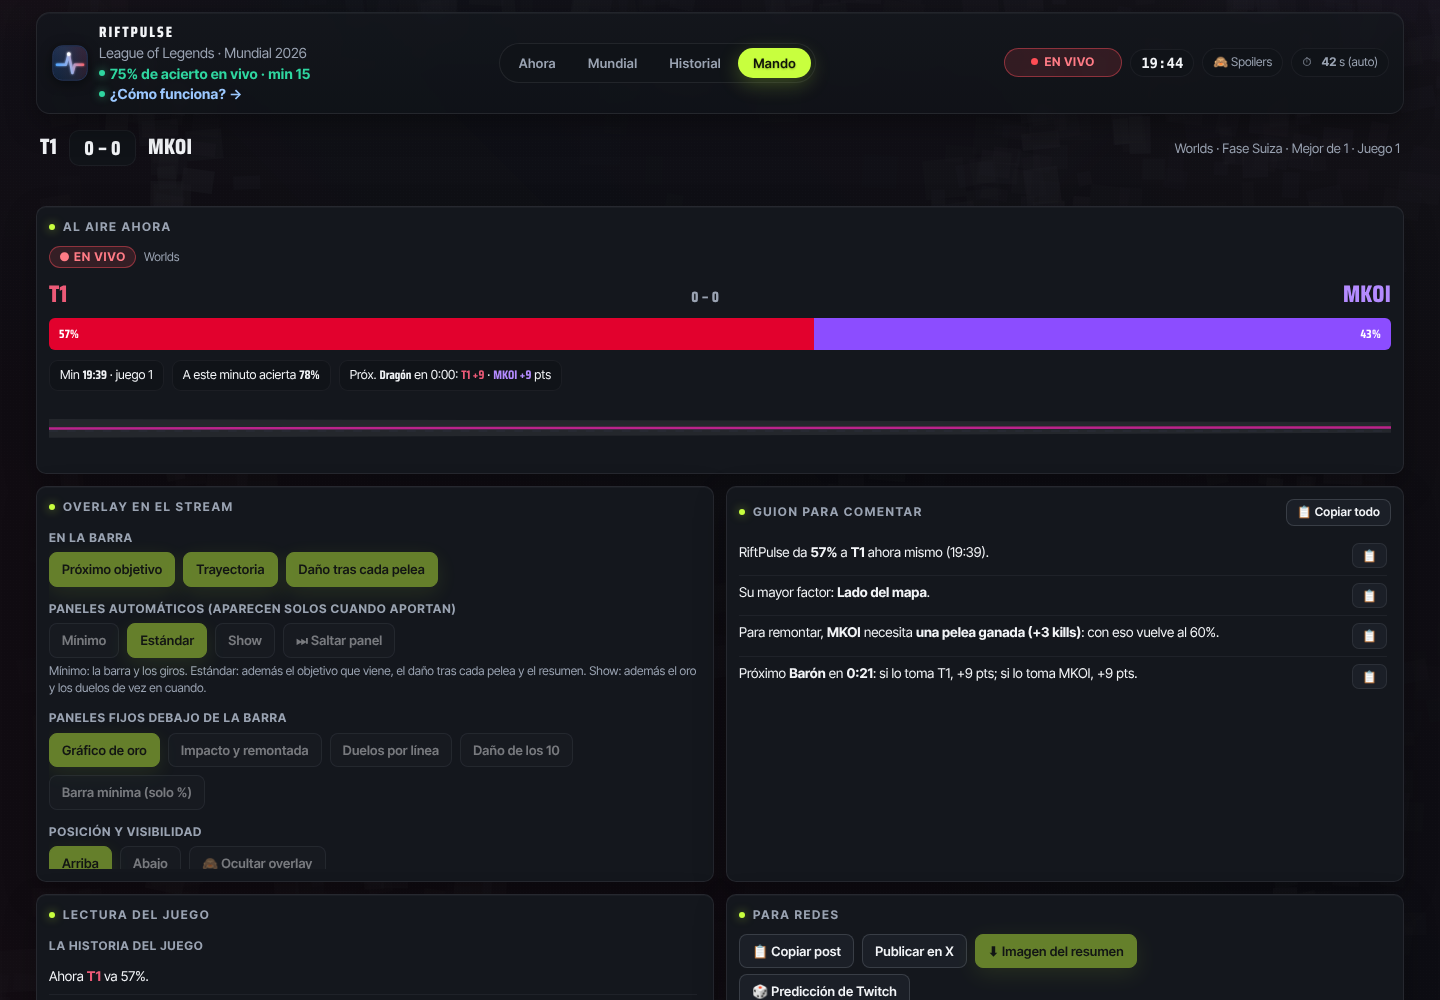
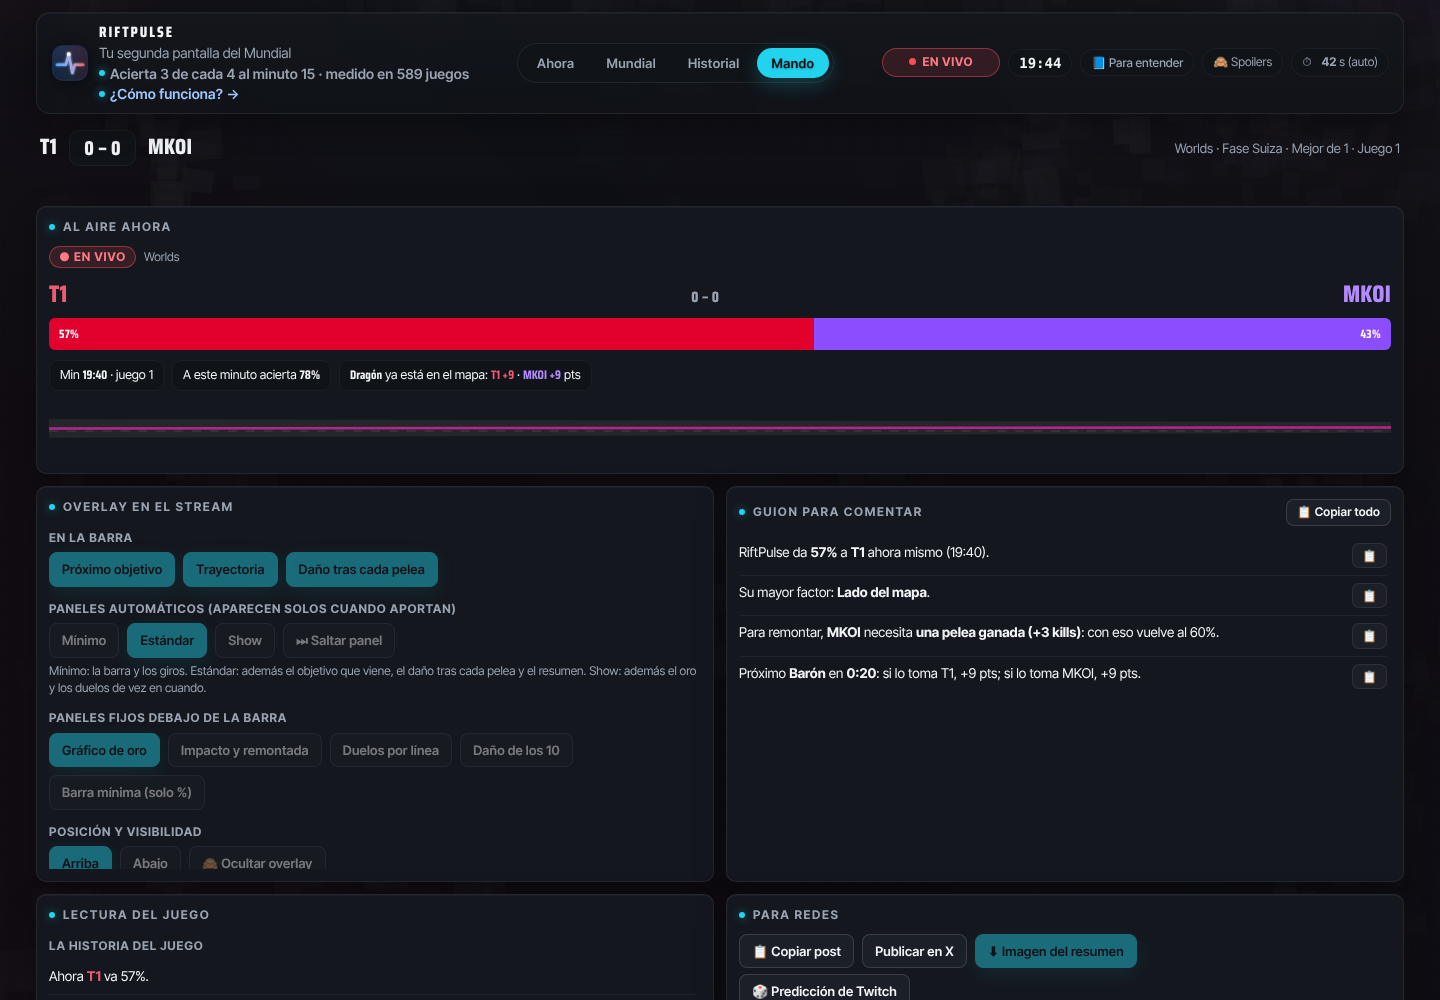
Marca: señal cian eléctrico (ya no verde, que recuerda a las apuestas) y el slogan «Tu segunda pantalla del Mundial»; el acierto pasa a un sello «acierta 3 de cada 4 al minuto 15»

diff --git a/index.html b/index.html
@@ -287,8 +287,8 @@ header.top{display:grid;grid-template-columns:auto 1fr auto;align-items:center;g
 .brand{display:flex;align-items:center;gap:10px}
 .logo{width:38px;height:38px;object-fit:contain;filter:drop-shadow(0 2px 6px rgba(0,0,0,.5))}
 .brand-t{font-weight:800;font-size:15px;letter-spacing:.2px}.brand-s{font-size:11px;color:var(--muted)}
-.brand-p{font-size:10.5px;font-weight:700;color:var(--ok);letter-spacing:.2px;margin-top:1px;display:flex;align-items:center;gap:5px}
-.brand-p::before{content:'';width:6px;height:6px;border-radius:50%;background:var(--ok);box-shadow:0 0 8px rgba(61,220,151,.6)}
+.brand-p{font-size:10.5px;font-weight:600;color:var(--muted);letter-spacing:.2px;margin-top:1px;display:flex;align-items:center;gap:5px}
+.brand-p::before{content:'';width:6px;height:6px;border-radius:50%;background:var(--signal);box-shadow:0 0 8px rgba(var(--signal-rgb),.6)}
 .brand-p:empty{display:none}
 nav.tabs{display:flex;justify-content:center;gap:2px;background:var(--surface-3);border:1px solid var(--line-2);border-radius:10px;padding:3px;justify-self:center}
 nav.tabs button{background:transparent;border:0;color:var(--muted);font-family:var(--ff-display);font-size:13px;font-weight:600;letter-spacing:.5px;text-transform:uppercase;padding:7px 15px;border-radius:7px;cursor:pointer;transition:background .15s,color .15s}
@@ -604,7 +604,7 @@ details.det summary::before{content:'▸ ';}details.det[open] summary::before{co
 <div id="tinte"><div class="city"></div><div class="grad"></div></div>
 <div class="wrap">
   <header class="top">
-    <div class="brand"><img class="logo" src="logo.svg" alt="RiftPulse"><div><div class="brand-t">RiftPulse</div><div class="brand-s">League of Legends · Mundial 2026</div><div class="brand-p" id="precHdr"></div><a class="brand-p" href="https://userf8a2c4.github.io/riftpulse-overlay/como-funciona.html" target="_blank" rel="noopener" style="color:var(--link);text-decoration:none">¿Cómo funciona? →</a></div></div>
+    <div class="brand"><img class="logo" src="logo.svg" alt="RiftPulse"><div><div class="brand-t">RiftPulse</div><div class="brand-s">Tu segunda pantalla del Mundial</div><div class="brand-p" id="precHdr"></div><a class="brand-p" href="https://userf8a2c4.github.io/riftpulse-overlay/como-funciona.html" target="_blank" rel="noopener" style="color:var(--link);text-decoration:none">¿Cómo funciona? →</a></div></div>
     <nav class="tabs"><button id="tabAhora">Ahora</button><button id="tabCopa">Mundial</button><button id="tabHist">Historial</button><button id="tabMando" title="Centro de mando para streamers y analistas">Mando</button></nav>
     <div class="hstat">
       <select id="sel" title="Partido en vivo" hidden></select>
@@ -765,6 +765,8 @@ const $ = s => document.querySelector(s);
 const esc = s => String(s ?? '').replace(/[&<>"']/g, c => ({'&': '&amp;', '<': '&lt;', '>': '&gt;', '"': '&quot;', "'": '&#39;'}[c]));
 const https = u => (u || '').replace(/^http:/, 'https:');
 const mmss = s => { s = Math.max(0, Math.round(s)); return Math.floor(s / 60) + ':' + String(s % 60).padStart(2, '0'); };
+// un acierto dicho como lo dice la gente: 0,745 → «3 de cada 4»
+const deCada = a => { let m = null; [[3, 4], [4, 5], [2, 3], [7, 10], [5, 6], [3, 5], [9, 10]].forEach(([x, y]) => { if (!m || Math.abs(x / y - a) < Math.abs(m[0] / m[1] - a)) m = [x, y]; }); return m[0] + ' de cada ' + m[1]; };
 const k1 = g => (g / 1000).toFixed(1).replace('.', ',') + 'k';  // decimales con coma
 const store = (k, v) => { try { if (v === undefined) return localStorage.getItem(k); localStorage.setItem(k, v); } catch (e) { return null; } };
 
@@ -2403,7 +2405,7 @@ function calibTick() {
 const BACKTEST = {"fecha":"2026-10-16","juego":{"pre":{"juegos":589,"acc":0.6248,"brier":0.2208,"accAnt":0.6265,"brierAnt":0.2256},"m10":{"juegos":589,"acc":0.6842,"brier":0.2023,"accAnt":0.6418,"brierAnt":0.2187},"m15":{"juegos":589,"acc":0.7453,"brier":0.1729,"accAnt":0.7267,"brierAnt":0.1831},"m20":{"juegos":588,"acc":0.7857,"brier":0.145,"accAnt":0.7704,"brierAnt":0.1513},"m25":{"juegos":554,"acc":0.8357,"brier":0.1137,"accAnt":0.8303,"brierAnt":0.1172}},"eventos":"Prueba con 589 juegos de agosto a octubre de 2026 que el modelo no vio (ligas regionales e internacionales). Entrenado con 1658 juegos anteriores; la version activa usa los 2247 juegos"};
 const seriesP = (p, bo) => { const need = Math.ceil(bo / 2), f = (x, y) => x >= need ? 1 : y >= need ? 0 : p * f(x + 1, y) + (1 - p) * f(x, y + 1); return f(0, 0); };
 // Badge de precisión en la cabecera (siempre visible): dato real del backtest.
-try { const _j = BACKTEST && BACKTEST.juego, _e = $('#precHdr'); if (_e && _j && _j.m15) _e.textContent = Math.round(_j.m15.acc * 100) + '% de acierto en vivo · min 15'; } catch (e) {}
+try { const _j = BACKTEST && BACKTEST.juego, _e = $('#precHdr'); if (_e && _j && _j.m15) _e.textContent = 'Acierta ' + deCada(_j.m15.acc) + ' al minuto 15 · medido en ' + (_j.m15.juegos || 589) + ' juegos'; } catch (e) {}
 function eloStats(rows) {
   let gOk = 0, gN = 0, br = 0, sOk = 0;
   const bins = {};
@@ -2568,12 +2570,12 @@ function pronElegir(id, code) {
 function shareMiPron() {
   const r = pronRecord(); if (!r.n) return;
   tarjeta('riftpulse-mi-mundial.png', (c, W) => {
-    brillo(c, 80, 0, 720, '200,255,62', .12);
+    brillo(c, 80, 0, 720, '34,211,238', .12);
     titulito(c, 'Mi Mundial contra RiftPulse', 96);
     c.fillStyle = '#F2F4F7'; c.font = '800 64px "Saira Condensed", sans-serif'; c.fillText(r.gane > 0 ? 'Le gané al modelo ' + r.gane + (r.gane === 1 ? ' vez' : ' veces') : 'Mi récord del Mundial', 60, 176);
     const caja = (x, n, k, col) => { c.fillStyle = '#14171D'; c.fillRect(x, 230, 250, 170); c.fillStyle = col; c.fillRect(x, 230, 250, 4);
       c.fillStyle = '#F2F4F7'; c.font = '800 76px "Saira Condensed", sans-serif'; c.fillText(n, x + 22, 330); c.fillStyle = '#9AA3B2'; c.font = '600 20px "Inter Tight", sans-serif'; c.fillText(k, x + 22, 372); };
-    caja(60, r.yo + '/' + r.n, 'mis aciertos', '#C8FF3E'); caja(330, r.rp + '/' + r.rpN, 'RiftPulse', '#9AA3B2'); caja(600, String(r.mejor), 'mejor racha', '#C8FF3E'); caja(870, String(r.gane), 'le gané al modelo', '#C8FF3E');
+    caja(60, r.yo + '/' + r.n, 'mis aciertos', '#22D3EE'); caja(330, r.rp + '/' + r.rpN, 'RiftPulse', '#9AA3B2'); caja(600, String(r.mejor), 'mejor racha', '#22D3EE'); caja(870, String(r.gane), 'le gané al modelo', '#22D3EE');
     c.fillStyle = '#6E7686'; c.font = '500 18px "Inter Tight", sans-serif'; c.fillText('Series del Mundial 2026 elegidas antes de empezar. RiftPulse: probabilidad de su modelo en ese momento.', 60, 460);
   });
 }
@@ -2795,14 +2797,14 @@ async function tarjeta(nombre, dibujar) {
   const W = 1200, H = 675, cv = document.createElement('canvas'); cv.width = W; cv.height = H; const c = cv.getContext('2d');
   c.fillStyle = '#0C0E12'; c.fillRect(0, 0, W, H);
   dibujar(c, W, H);
-  c.fillStyle = '#C8FF3E'; c.fillRect(60, H - 62, 34, 3);
+  c.fillStyle = '#22D3EE'; c.fillRect(60, H - 62, 34, 3);
   c.textAlign = 'left'; c.fillStyle = '#6E7686'; c.font = '500 16px "Inter Tight", sans-serif';
   c.fillText('Pronóstico de un modelo propio, sin apuestas. No avalado por Riot Games. #Worlds2026', 60, H - 30);
   c.textAlign = 'right'; c.fillStyle = '#F2F4F7'; c.font = '800 24px "Saira Condensed", sans-serif'; c.fillText('RIFTPULSE', W - 60, H - 30); c.textAlign = 'left';
   const l = document.createElement('a'); l.href = cv.toDataURL('image/png'); l.download = nombre; l.click();
 }
 const brillo = (c, x, y, r, rgb, a) => { const g = c.createRadialGradient(x, y, 10, x, y, r); g.addColorStop(0, `rgba(${rgb},${a})`); g.addColorStop(1, 'rgba(0,0,0,0)'); c.fillStyle = g; c.fillRect(0, 0, 1200, 675); };
-const titulito = (c, txt, y) => { c.fillStyle = '#C8FF3E'; c.fillRect(60, y - 30, 90, 4); c.fillStyle = '#9AA3B2'; c.font = '700 22px "Saira Condensed", sans-serif'; c.fillText(txt.toUpperCase().slice(0, 70), 60, y); };
+const titulito = (c, txt, y) => { c.fillStyle = '#22D3EE'; c.fillRect(60, y - 30, 90, 4); c.fillStyle = '#9AA3B2'; c.font = '700 22px "Saira Condensed", sans-serif'; c.fillText(txt.toUpperCase().slice(0, 70), 60, y); };
 // la barra de dos colores con los porcentajes adentro
 function barra2(c, x, y, w, h, p, A, B) {
   c.fillStyle = A.main; c.fillRect(x, y, w * p, h); c.fillStyle = B.main; c.fillRect(x + w * p, y, w * (1 - p), h);
@@ -2831,7 +2833,7 @@ function sharePickem() {
   const w30 = by(x => x.w30).slice(0, 2), l03 = by(x => x.l03).slice(0, 2), used = new Set([...w30, ...l03].map(x => x.t));
   const adv = by(x => x.qf - x.w30).filter(x => !used.has(x.t)).slice(0, 5);
   tarjeta('riftpulse-pickem.png', (c, W) => {
-    brillo(c, W - 100, 0, 760, '200,255,62', .10);
+    brillo(c, W - 100, 0, 760, '34,211,238', .10);
     titulito(c, "Mi Pick'Em · Sistema Suizo", 96);
     c.fillStyle = '#F2F4F7'; c.font = '800 64px "Saira Condensed", sans-serif'; c.fillText('Según RiftPulse', 60, 170);
     const fila = (y, k, lista, f) => {

diff --git a/extension/engine.js b/extension/engine.js
@@ -844,7 +844,7 @@
       out.push('<b>'+esc(r.code)+'</b> gana en '+mmss(r.dur)+'. Al arrancar el juego el modelo le daba '+pct(r.pre)+'.');
       if (r.comeback) out.push('¡Remontada! Estuvo al <b>'+pct(r.low.p)+'</b> en el min '+mmss(r.low.gt)+'.');
       else out.push('Su peor momento: '+pct(r.low.p)+' en el min '+mmss(r.low.gt)+'.');
-      if (r.swing) out.push(r.swing.b-r.swing.a>360 ? 'Ventaja construida de a poco: <b>+'+Math.round(Math.abs(r.swing.d)*100)+' pts</b> entre el min '+mmss(r.swing.a)+' y el '+mmss(r.swing.b)+'.'
+      if (r.swing) out.push((r.swing.a<60 && r.swing.b-r.swing.a>360) || (r.swing.b-r.swing.a>600 && !/Barón|Pelea|Ancestral|Inhibidor|ALMA/.test(r.swing.cause||'')) ? 'Ventaja construida de a poco: <b>+'+Math.round(Math.abs(r.swing.d)*100)+' pts</b> entre el min '+mmss(r.swing.a)+' y el '+mmss(r.swing.b)+'.'
         : 'El giro decisivo: min '+mmss(r.swing.a)+'–'+mmss(r.swing.b)+', <b>+'+Math.round(Math.abs(r.swing.d)*100)+' pts</b> con '+esc(causaTxt(r.swing.cause, r.swing.side))+'.');
       if (r.key) out.push('Jugador clave: <b>'+esc(r.key.name)+'</b> ('+esc(r.key.code)+', '+esc(r.key.champ)+') · '+r.key.k+'/'+r.key.d+'/'+r.key.a+' · '+Math.round(r.key.share*100)+'% del daño.');
       if (r.stats){ var w=r.stats[r.win], l=r.stats[r.win==='blue'?'red':'blue']; out.push('Kills '+w.kills+'–'+l.kills+' · torres '+w.towers+'–'+l.towers+' · dragones '+w.dragons+'–'+l.dragons+' · Barones '+w.barons+'–'+l.barons+'.'); }
@@ -857,7 +857,7 @@
       var F=function(w,sz,fam){ return w+' '+sz+'px '+(fam||'"Saira Condensed", sans-serif'); };
       c.fillStyle='#0C0E12'; c.fillRect(0,0,W,H);
       var gl=c.createRadialGradient(r.win==='blue'?100:W-100,0,10,r.win==='blue'?100:W-100,0,720); gl.addColorStop(0,'rgba('+Wn.rgb+',.30)'); gl.addColorStop(1,'rgba(0,0,0,0)'); c.fillStyle=gl; c.fillRect(0,0,W,H);
-      c.fillStyle='#C8FF3E'; c.fillRect(60,66,90,4);
+      c.fillStyle='#22D3EE'; c.fillRect(60,66,90,4);
       c.fillStyle='#9AA3B2'; c.font=F(700,22); c.fillText(('Fin del juego'+(m.gameNo?' '+m.gameNo:'')+' · '+(m.league||'')).toUpperCase(),60,96);
       c.fillStyle=Wn.txt; c.font=F(800,84); c.fillText(r.code+' gana',56,176);
       c.fillStyle='#C7CDD8'; c.font=F(500,24,'"Inter Tight", sans-serif'); c.fillText('vs '+r.lose+' · '+mmss(r.dur)+(r.comeback?' · ¡remontada desde el '+pct(r.low.p)+'!':''),60,216);
@@ -872,10 +872,10 @@
       var lines=recapLines(s).slice(2).map(function(t){ return t.replace(/<[^>]+>/g,''); }), y=Y0+CH+66;
       c.fillStyle='#F2F4F7'; c.font=F(500,22,'"Inter Tight", sans-serif');
       lines.slice(0,3).forEach(function(t){ c.fillText(t.length>92?t.slice(0,90)+'…':t,60,y); y+=36; });
-      c.fillStyle='#C8FF3E'; c.fillRect(60,H-62,34,3);
+      c.fillStyle='#22D3EE'; c.fillRect(60,H-62,34,3);
       c.fillStyle='#6E7686'; c.font=F(500,16,'"Inter Tight", sans-serif'); c.fillText('Pronóstico de un modelo propio, sin apuestas. No avalado por Riot Games. #Worlds2026',60,H-30);
       c.textAlign='right'; c.fillStyle='#F2F4F7'; c.font=F(800,24); c.fillText('RIFTPULSE',W-60,H-30);
-      if (s.precision){ c.fillStyle='#C8FF3E'; c.font=F(700,18); c.fillText(Math.round(s.precision.acc15*100)+'% DE ACIERTO AL MIN 15',W-60,H-60); }
+      if (s.precision){ c.fillStyle='#22D3EE'; c.font=F(700,18); c.fillText(Math.round(s.precision.acc15*100)+'% DE ACIERTO AL MIN 15',W-60,H-60); }
       c.textAlign='left';
       return cv.toDataURL('image/png');
     }
@@ -1102,7 +1102,9 @@
     // 2) el giro: el más grande; con el juego terminado, el decisivo del ganador (y el del que perdió, si fue mayor)
     var pts = function (w) { return '<b>+' + Math.round(Math.abs(w.d) * 100) + ' puntos</b>'; };
     var giroTxt = function (w, pre) {
-      if (w.b - w.a > 360) return C[w.side] + ' fue ampliando la ventaja de a poco: ' + pts(w) + ' entre el min ' + mmss(w.a) + ' y el ' + mmss(w.b) + '.';
+      // «de a poco» solo si la ventaja crece desde el arranque, o por más de 10 min sin un Barón ni una pelea que la explique
+      var largo = (w.a < 60 && w.b - w.a > 360) || (w.b - w.a > 600 && !/Barón|Pelea|Ancestral|Inhibidor|ALMA/.test(w.cause || ''));
+      if (largo) return C[w.side] + ' fue ampliando la ventaja de a poco: ' + pts(w) + ' entre el min ' + mmss(w.a) + ' y el ' + mmss(w.b) + '.';
       var ca = causaTxt(w.cause, w.side);
       return (pre || 'El giro') + ': entre el min ' + mmss(w.a) + ' y el ' + mmss(w.b) + ', ' + C[w.side] + ' sumó ' + pts(w) + (ca ? ' con ' + eh(ca) : '') + '.';
     };

diff --git a/extension/overlay.js b/extension/overlay.js
@@ -5,7 +5,7 @@
   'use strict';
   var RPC = window.RPC = {a: '#3d8bff', a2: '#2a63c0', ahi: '#8dbbff', aink: '#ffffff', atxt: '#7fb2ff', argb: '61,139,255',
     b: '#ff4655', b2: '#c0303d', bhi: '#ff96a0', bink: '#ffffff', btxt: '#ff7c87', brgb: '255,70,85',
-    s: '#c8ff3e', s2: '#9ed62a', srgb: '200,255,62', codes: null};
+    s: '#22D3EE', s2: '#0EA5C6', srgb: '34,211,238', codes: null};
   var RP = window.RPUI = window.RPUI || {};
   var ultimo = '';
   // carga los colores de un partido en la página (o en un elemento, por ejemplo el host del overlay)
@@ -13,7 +13,7 @@
     var R = window.RiftEngine; if (!R || !R.colores) return RPC;
     var key = codeA + '|' + codeB + '|' + (el ? 'el' : 'doc');
     if (key === ultimo && !el) return RPC;
-    var c = RP.tema === 'canal' && R.paleta ? {a: R.paleta(RP.acento || '#C8FF3E'), b: R.paleta('#AEB6C4')} : R.colores(codeA, codeB);
+    var c = RP.tema === 'canal' && R.paleta ? {a: R.paleta(RP.acento || '#22D3EE'), b: R.paleta('#AEB6C4')} : R.colores(codeA, codeB);
     aplicar(c, el);
     RPC.codes = [codeA, codeB]; if (!el) ultimo = key;
     return RPC;
@@ -299,7 +299,7 @@
   // tokens del sistema visual dentro del shadow DOM (los colores del partido los pone RP.colores en el host)
   var TOK = ':host{--bg:#0C0E12;--bg-rgb:12,14,18;--g0:#101318;--g0-rgb:16,19,24;--g1:#14171D;--g1-rgb:20,23,29;--g2:#1B1F27;--g2-rgb:27,31,39;--line-rgb:220,226,236;' +
     '--line:rgba(220,226,236,.09);--line-2:rgba(220,226,236,.06);--line-strong:rgba(220,226,236,.16);--text:#F2F4F7;--muted:#9AA3B2;--text-dim:#6E7686;' +
-    '--signal:#C8FF3E;--signal-2:#9ED62A;--signal-soft:#E4FF9E;--signal-rgb:200,255,62;--signal-ink:#10140A;--ok:#2FD6A0;--live:#FF4D5A;--link:#9CC8FF;' +
+    '--signal:#22D3EE;--signal-2:#0EA5C6;--signal-soft:#A5F3FC;--signal-rgb:34,211,238;--signal-ink:#0C0E12;--ok:#2FD6A0;--live:#FF4D5A;--link:#9CC8FF;' +
     '--team-a:#3D8BFF;--team-a-2:#2A63C0;--team-a-hi:#8DBBFF;--team-a-ink:#FFFFFF;--team-a-rgb:61,139,255;--team-a-txt:#7FB2FF;' +
     '--team-b:#FF4655;--team-b-2:#C0303D;--team-b-hi:#FF96A0;--team-b-ink:#FFFFFF;--team-b-rgb:255,70,85;--team-b-txt:#FF7C87;' +
     '--ff:Inter Tight,system-ui,sans-serif;--ffd:Saira Condensed,Inter Tight,sans-serif;--ffm:JetBrains Mono,ui-monospace,monospace}';

diff --git a/engine.js b/engine.js
@@ -857,7 +857,7 @@
       var F=function(w,sz,fam){ return w+' '+sz+'px '+(fam||'"Saira Condensed", sans-serif'); };
       c.fillStyle='#0C0E12'; c.fillRect(0,0,W,H);
       var gl=c.createRadialGradient(r.win==='blue'?100:W-100,0,10,r.win==='blue'?100:W-100,0,720); gl.addColorStop(0,'rgba('+Wn.rgb+',.30)'); gl.addColorStop(1,'rgba(0,0,0,0)'); c.fillStyle=gl; c.fillRect(0,0,W,H);
-      c.fillStyle='#C8FF3E'; c.fillRect(60,66,90,4);
+      c.fillStyle='#22D3EE'; c.fillRect(60,66,90,4);
       c.fillStyle='#9AA3B2'; c.font=F(700,22); c.fillText(('Fin del juego'+(m.gameNo?' '+m.gameNo:'')+' · '+(m.league||'')).toUpperCase(),60,96);
       c.fillStyle=Wn.txt; c.font=F(800,84); c.fillText(r.code+' gana',56,176);
       c.fillStyle='#C7CDD8'; c.font=F(500,24,'"Inter Tight", sans-serif'); c.fillText('vs '+r.lose+' · '+mmss(r.dur)+(r.comeback?' · ¡remontada desde el '+pct(r.low.p)+'!':''),60,216);
@@ -872,10 +872,10 @@
       var lines=recapLines(s).slice(2).map(function(t){ return t.replace(/<[^>]+>/g,''); }), y=Y0+CH+66;
       c.fillStyle='#F2F4F7'; c.font=F(500,22,'"Inter Tight", sans-serif');
       lines.slice(0,3).forEach(function(t){ c.fillText(t.length>92?t.slice(0,90)+'…':t,60,y); y+=36; });
-      c.fillStyle='#C8FF3E'; c.fillRect(60,H-62,34,3);
+      c.fillStyle='#22D3EE'; c.fillRect(60,H-62,34,3);
       c.fillStyle='#6E7686'; c.font=F(500,16,'"Inter Tight", sans-serif'); c.fillText('Pronóstico de un modelo propio, sin apuestas. No avalado por Riot Games. #Worlds2026',60,H-30);
       c.textAlign='right'; c.fillStyle='#F2F4F7'; c.font=F(800,24); c.fillText('RIFTPULSE',W-60,H-30);
-      if (s.precision){ c.fillStyle='#C8FF3E'; c.font=F(700,18); c.fillText(Math.round(s.precision.acc15*100)+'% DE ACIERTO AL MIN 15',W-60,H-60); }
+      if (s.precision){ c.fillStyle='#22D3EE'; c.font=F(700,18); c.fillText(Math.round(s.precision.acc15*100)+'% DE ACIERTO AL MIN 15',W-60,H-60); }
       c.textAlign='left';
       return cv.toDataURL('image/png');
     }

diff --git a/overlay.js b/overlay.js
@@ -46,7 +46,7 @@
   // tokens del sistema visual dentro del shadow DOM (los colores del partido los pone RP.colores en el host)
   var TOK = ':host{--bg:#0C0E12;--bg-rgb:12,14,18;--g0:#101318;--g0-rgb:16,19,24;--g1:#14171D;--g1-rgb:20,23,29;--g2:#1B1F27;--g2-rgb:27,31,39;--line-rgb:220,226,236;' +
     '--line:rgba(220,226,236,.09);--line-2:rgba(220,226,236,.06);--line-strong:rgba(220,226,236,.16);--text:#F2F4F7;--muted:#9AA3B2;--text-dim:#6E7686;' +
-    '--signal:#C8FF3E;--signal-2:#9ED62A;--signal-soft:#E4FF9E;--signal-rgb:200,255,62;--signal-ink:#10140A;--ok:#2FD6A0;--live:#FF4D5A;--link:#9CC8FF;' +
+    '--signal:#22D3EE;--signal-2:#0EA5C6;--signal-soft:#A5F3FC;--signal-rgb:34,211,238;--signal-ink:#0C0E12;--ok:#2FD6A0;--live:#FF4D5A;--link:#9CC8FF;' +
     '--team-a:#3D8BFF;--team-a-2:#2A63C0;--team-a-hi:#8DBBFF;--team-a-ink:#FFFFFF;--team-a-rgb:61,139,255;--team-a-txt:#7FB2FF;' +
     '--team-b:#FF4655;--team-b-2:#C0303D;--team-b-hi:#FF96A0;--team-b-ink:#FFFFFF;--team-b-rgb:255,70,85;--team-b-txt:#FF7C87;' +
     '--ff:Inter Tight,system-ui,sans-serif;--ffd:Saira Condensed,Inter Tight,sans-serif;--ffm:JetBrains Mono,ui-monospace,monospace}';

diff --git a/README.md b/README.md
@@ -2,7 +2,7 @@
 
 # RiftPulse
 
-Una segunda pantalla para ver el **Mundial de League of Legends 2026 (Worlds)**: predicción en vivo del ganador con un modelo entrenado y **honesto sobre sus aciertos**, la historia de cada juego, simulación del torneo y ayuda para el Pick'Em oficial. Todo en los **colores de cada equipo**.
+**Tu segunda pantalla del Mundial.** Para ver el **Mundial de League of Legends 2026 (Worlds)**: predicción en vivo del ganador con un modelo entrenado y **honesto sobre sus aciertos**, la historia de cada juego, simulación del torneo y ayuda para el Pick'Em oficial. Todo en los **colores de cada equipo**.
 
 Es un solo archivo HTML, sin instalación ni servidor. Proyecto de código abierto, **sin funciones de apuestas**.
 
